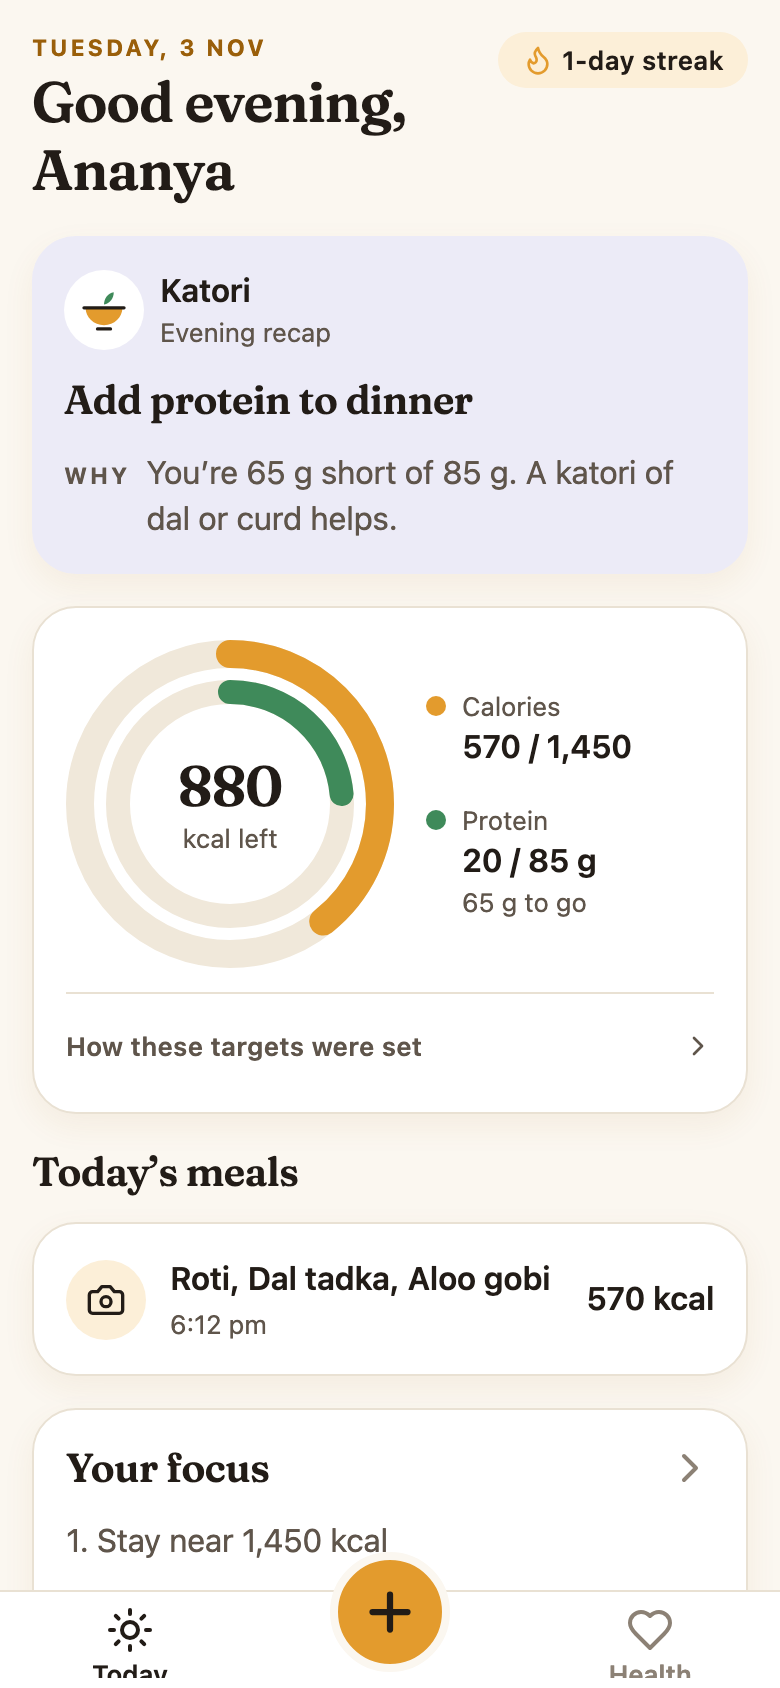
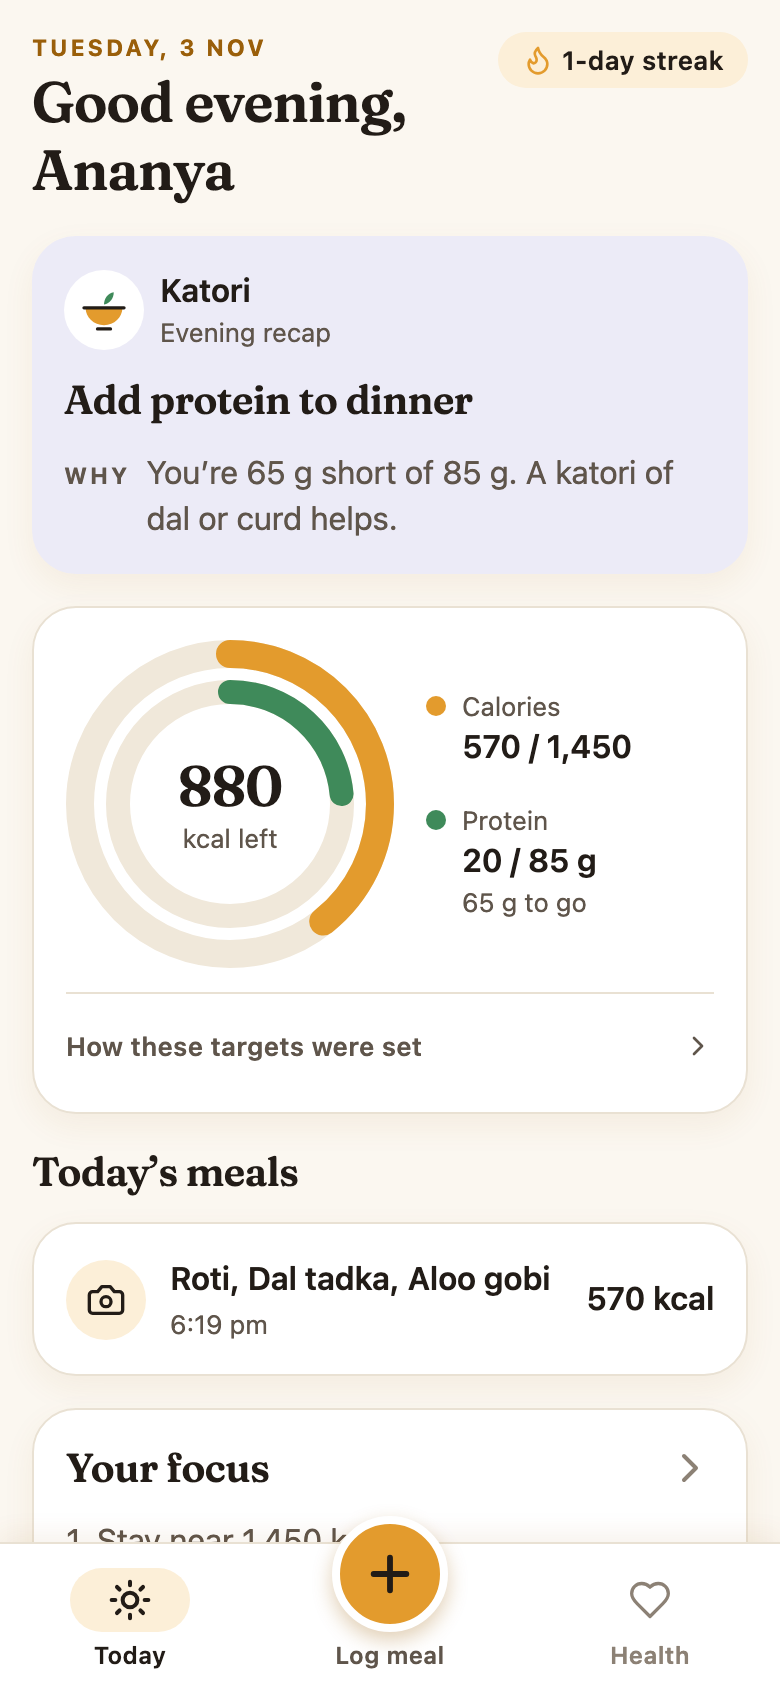
feat(ui): own tab bar with fixed height labels and a labelled centre button
The default tab bar sized itself from the icon and clipped the labels. The new
bar gives every item a fixed height, puts a soft turmeric pill behind the
active icon, lifts the turmeric + for logging with its own label, and keeps
the items together at content width on wide screens.

diff --git a/mobile/src/components/navigation/AppTabBar.tsx b/mobile/src/components/navigation/AppTabBar.tsx
@@ -1,0 +1,178 @@
+import type { BottomTabBarProps } from 'expo-router/tabs';
+import { Platform, Pressable, StyleSheet, View } from 'react-native';
+
+import { Icon, type IconName, Text } from '@/components/ui';
+import { haptics } from '@/lib/haptics';
+import { colors, MAX_CONTENT_WIDTH, radii, spacing } from '@/theme';
+
+export interface TabItem {
+  label: string;
+  icon: IconName;
+  /** The raised centre action (logging a meal) instead of a normal tab. */
+  raised?: boolean;
+}
+
+interface AppTabBarProps extends BottomTabBarProps {
+  /** Label and icon per route name, in the same order as the screens. */
+  items: Record<string, TabItem>;
+}
+
+const RAISED_SIZE = 58;
+// A fixed height for every item, so labels can never be clipped by the bar.
+const ITEM_HEIGHT = 56;
+
+/**
+ * Katori's own tab bar. The default one sized itself from the icon and cut off labels on some
+ * screens; this one has a fixed item height, a soft turmeric pill behind the active icon, and
+ * the raised turmeric button for logging in the middle, with its own label.
+ */
+export function AppTabBar({
+  state,
+  descriptors,
+  emitter,
+  navigateToTab,
+  insets,
+  items,
+}: AppTabBarProps) {
+  return (
+    <View style={[styles.bar, { paddingBottom: Math.max(insets.bottom, spacing.sm) }]}>
+      <View style={styles.row} accessibilityRole="tablist">
+        {state.routes.map((route, index) => {
+          const item = items[route.name];
+          if (!item) return null;
+          const focused = index === state.index;
+          const label = descriptors[route.key]?.options.tabBarAccessibilityLabel ?? item.label;
+
+          const onPress = () => {
+            if (item.raised) haptics.tap();
+            const event = emitter.emit({
+              type: 'tabPress',
+              target: route.key,
+              canPreventDefault: true,
+            });
+            if (!focused && !event.defaultPrevented) navigateToTab(route.key);
+          };
+
+          return (
+            <Pressable
+              key={route.key}
+              onPress={onPress}
+              accessibilityRole="tab"
+              accessibilityLabel={label}
+              accessibilityState={{ selected: focused }}
+              style={styles.item}
+            >
+              {({ pressed }) =>
+                item.raised ? (
+                  <>
+                    <View style={[styles.raised, pressed && styles.raisedPressed]}>
+                      <Icon name={item.icon} size={28} strokeWidth={2.5} />
+                    </View>
+                    <Text
+                      variant="label"
+                      color={focused ? 'textPrimary' : 'textSecondary'}
+                      style={styles.label}
+                      numberOfLines={1}
+                    >
+                      {item.label}
+                    </Text>
+                  </>
+                ) : (
+                  <>
+                    <View
+                      style={[
+                        styles.iconPill,
+                        focused && styles.iconPillActive,
+                        pressed && styles.iconPillPressed,
+                      ]}
+                    >
+                      <Icon
+                        name={item.icon}
+                        size={22}
+                        color={focused ? 'textPrimary' : 'textMuted'}
+                        strokeWidth={focused ? 2.2 : 1.8}
+                      />
+                    </View>
+                    <Text
+                      variant="label"
+                      color={focused ? 'textPrimary' : 'textMuted'}
+                      style={styles.label}
+                      numberOfLines={1}
+                    >
+                      {item.label}
+                    </Text>
+                  </>
+                )
+              }
+            </Pressable>
+          );
+        })}
+      </View>
+    </View>
+  );
+}
+
+const styles = StyleSheet.create({
+  bar: {
+    backgroundColor: colors.surface,
+    borderTopWidth: StyleSheet.hairlineWidth,
+    borderTopColor: colors.border,
+    paddingTop: spacing.sm,
+    ...Platform.select({
+      android: { elevation: 8 },
+      default: {
+        shadowColor: colors.brandText,
+        shadowOpacity: 0.08,
+        shadowRadius: 12,
+        shadowOffset: { width: 0, height: -4 },
+      },
+    }),
+  },
+  // Kept to the content width on tablets and desktop, so the three items stay together.
+  row: {
+    flexDirection: 'row',
+    alignItems: 'flex-end',
+    width: '100%',
+    maxWidth: MAX_CONTENT_WIDTH,
+    alignSelf: 'center',
+  },
+  item: {
+    flex: 1,
+    height: ITEM_HEIGHT,
+    alignItems: 'center',
+    justifyContent: 'flex-end',
+    gap: spacing.xs,
+  },
+  iconPill: {
+    width: 60,
+    height: 32,
+    borderRadius: radii.pill,
+    alignItems: 'center',
+    justifyContent: 'center',
+  },
+  iconPillActive: { backgroundColor: colors.brandTint },
+  iconPillPressed: { backgroundColor: colors.surfaceMuted },
+  label: { fontSize: 12, lineHeight: 16 },
+  raised: {
+    width: RAISED_SIZE,
+    height: RAISED_SIZE,
+    // Lifts the button above the bar; the paper coloured ring separates it from the content.
+    marginTop: -RAISED_SIZE / 2,
+    borderRadius: radii.pill,
+    borderWidth: 4,
+    borderColor: colors.surface,
+    backgroundColor: colors.brand,
+    alignItems: 'center',
+    justifyContent: 'center',
+    ...Platform.select({
+      android: { elevation: 6 },
+      default: {
+        shadowColor: colors.brandText,
+        shadowOpacity: 0.3,
+        shadowRadius: 10,
+        shadowOffset: { width: 0, height: 4 },
+      },
+    }),
+  },
+  raisedPressed: { backgroundColor: colors.brandText, transform: [{ scale: 0.96 }] },
+});

diff --git a/mobile/src/app/(tabs)/_layout.tsx b/mobile/src/app/(tabs)/_layout.tsx
@@ -1,74 +1,27 @@
-import { type BottomTabBarButtonProps, Tabs } from 'expo-router/tabs';
-import { Pressable, StyleSheet, View } from 'react-native';
+import { Tabs } from 'expo-router/tabs';
 
-import { Icon, type IconName } from '@/components/ui';
-import { colors, radii, typography } from '@/theme';
+import { AppTabBar, type TabItem } from '@/components/navigation/AppTabBar';
+import { colors } from '@/theme';
 
-function tabIcon(name: IconName) {
-  function TabIcon({ focused }: { focused: boolean }) {
-    return <Icon name={name} color={focused ? 'primary' : 'textMuted'} />;
-  }
-  return TabIcon;
-}
+/** Today, a raised centre button to log a meal, and long term health (lab reports). */
+const TAB_ITEMS: Record<string, TabItem> = {
+  index: { label: 'Today', icon: 'today' },
+  log: { label: 'Log meal', icon: 'plus', raised: true },
+  health: { label: 'Health', icon: 'health' },
+};
 
-const LOG_BUTTON_SIZE = 60;
-
-/**
- * The raised turmeric button in the middle of the tab bar. Logging is the one thing people do
- * several times a day, so it sits under the thumb on every main screen.
- */
-function LogTabButton({ onPress, accessibilityState }: BottomTabBarButtonProps) {
-  return (
-    <View style={styles.logSlot}>
-      <Pressable
-        onPress={onPress}
-        accessibilityRole="button"
-        accessibilityLabel="Log a meal"
-        accessibilityState={accessibilityState}
-        style={({ pressed }) => [styles.logButton, pressed && styles.logButtonPressed]}
-      >
-        <Icon name="plus" size={30} strokeWidth={2.5} />
-      </Pressable>
-    </View>
-  );
-}
-
-/** Today, a centre button to log a meal, and long term health (lab reports). */
 export default function TabsLayout() {
   return (
     <Tabs
-      screenOptions={{
-        headerShown: false,
-        tabBarActiveTintColor: colors.primary,
-        tabBarInactiveTintColor: colors.textMuted,
-        tabBarLabelStyle: { fontSize: typography.label.fontSize, fontWeight: '600' },
-        tabBarStyle: { backgroundColor: colors.surface, borderTopColor: colors.border },
-        sceneStyle: { backgroundColor: colors.background },
-      }}
+      tabBar={(props) => <AppTabBar {...props} items={TAB_ITEMS} />}
+      screenOptions={{ headerShown: false, sceneStyle: { backgroundColor: colors.background } }}
     >
-      <Tabs.Screen name="index" options={{ title: 'Today', tabBarIcon: tabIcon('today') }} />
+      <Tabs.Screen name="index" options={{ title: 'Today' }} />
       <Tabs.Screen
         name="log"
-        options={{ title: 'Log a meal', tabBarButton: (props) => <LogTabButton {...props} /> }}
+        options={{ title: 'Log a meal', tabBarAccessibilityLabel: 'Log a meal' }}
       />
-      <Tabs.Screen name="health" options={{ title: 'Health', tabBarIcon: tabIcon('health') }} />
+      <Tabs.Screen name="health" options={{ title: 'Health' }} />
     </Tabs>
   );
 }
-
-const styles = StyleSheet.create({
-  logSlot: { flex: 1, alignItems: 'center' },
-  logButton: {
-    width: LOG_BUTTON_SIZE,
-    height: LOG_BUTTON_SIZE,
-    // Lifts the button half out of the bar; the paper coloured ring separates it from the bar.
-    marginTop: -LOG_BUTTON_SIZE / 3,
-    borderRadius: radii.pill,
-    borderWidth: 4,
-    borderColor: colors.background,
-    backgroundColor: colors.brand,
-    alignItems: 'center',
-    justifyContent: 'center',
-  },
-  logButtonPressed: { backgroundColor: colors.brandText },
-});
